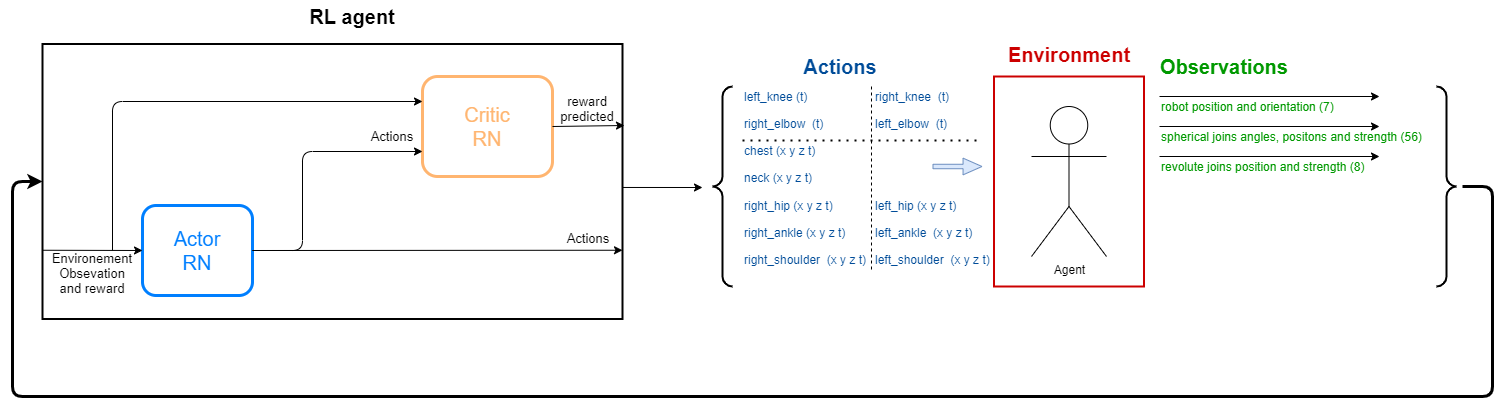
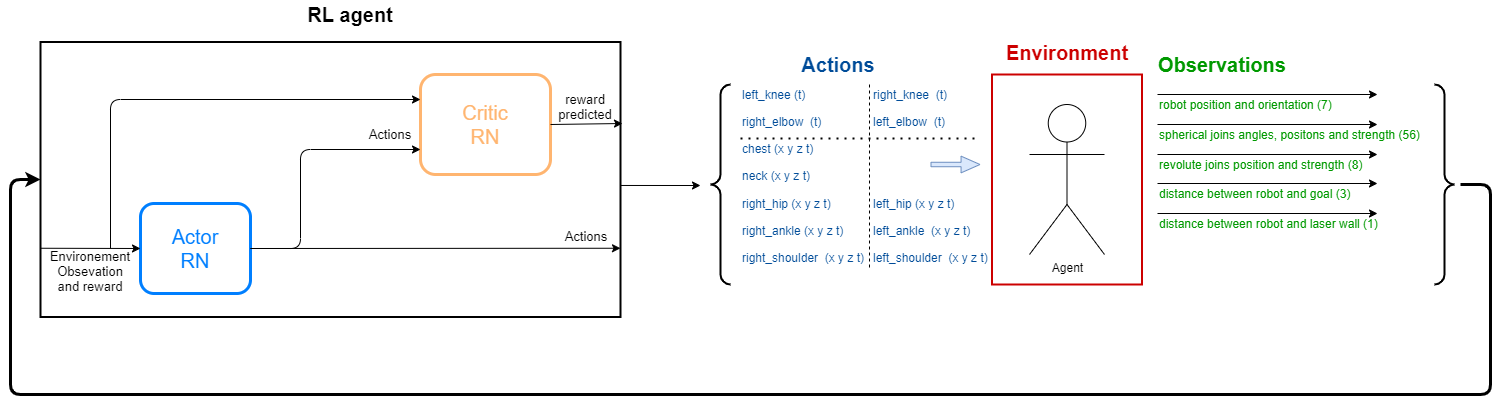
Update reward

diff --git a/environment.py b/environment.py
@@ -20,6 +20,8 @@ REWARD_HUMAN_STAYING_UP_NEGATIVE = -40
 
 REWARD_HUMAN_JUMP_TO_MUCH_NEGATIVE = -50
 
+REWARD_Z_DERIVATION_CONST = 20
+
 
 class Environment(object):
     def __init__(self):
@@ -66,10 +68,14 @@ class Environment(object):
         return human_root_position[2] - floor_root_position[2]
 
     def get_distance_human_goal(self):
-        (human_root_position, _) = self.human.get_position_orientation()
-        human_coord = Coordinate(human_root_position[0], human_root_position[1], human_root_position[2])
+        human_root_position = self.human.get_position_orientation()[0]
+        human_coord = Coordinate(human_root_position[0], human_root_position[2], human_root_position[1])
         distance_from_goal = human_coord.abs_distance_from(self.goal_coord)
         return distance_from_goal
+
+    def get_distance_human_laser(self):
+        human_root_position = self.human.get_position_orientation()[0]
+        return self.laser_wall - human_root_position[0]
 
     def get_state(self):
         joins_information = self.human.get_joins_information()
@@ -87,31 +93,38 @@ class Environment(object):
                 result.append(value)
         for distance_goal in self.get_distance_human_goal():
             result.append(distance_goal)
+        result.append(self.get_distance_human_laser())
 
         return tuple(result)
 
     def get_reward(self):
-        # reward to stay alive
         reward = REWARD_STAYING_ALIVE
 
         reward += self.get_distance_goal_reward()
         reward += self.get_laser_reward()
         reward += self.get_human_stand_up_reward()
+        reward += self.z_derivation_reward()
 
         return reward
 
     def get_distance_goal_reward(self):
         if self.get_distance_human_goal()[0] < self.memory["distance_human_goal"][0]:
-            # print("closer !!!")
-            return REWARD_HUMAN_CLOSER_GOAL_POSITIVE
+            return REWARD_HUMAN_CLOSER_GOAL_POSITIVE + \
+                   (REWARD_HUMAN_CLOSER_GOAL_POSITIVE * (self.goal_coord.x - self.get_distance_human_goal()[0])) * 0.1
         else:
-            return REWARD_HUMAN_CLOSER_GOAL_NEGATIVE
+            return REWARD_HUMAN_CLOSER_GOAL_NEGATIVE + \
+                   (REWARD_HUMAN_CLOSER_GOAL_NEGATIVE * self.get_distance_human_goal()[0]) * 0.1
 
     def get_laser_reward(self):
         if self.laser_wall < self.human.get_position_orientation()[0][0]:
-            return REWARD_HUMAN_AHEAD_LASER_WALL
+            return REWARD_HUMAN_AHEAD_LASER_WALL + \
+                   (REWARD_HUMAN_AHEAD_LASER_WALL * self.get_distance_human_laser()) * 0.1
         else:
-            return REWARD_HUMAN_BEHIND_LASER_WALL
+            return REWARD_HUMAN_BEHIND_LASER_WALL + \
+                   (REWARD_HUMAN_BEHIND_LASER_WALL * self.get_distance_human_laser()) * 0.1
+
+    def z_derivation_reward(self):
+        return REWARD_Z_DERIVATION_CONST * self.human.get_position_orientation()[0][1]
 
     def get_human_stand_up_reward(self):
         # (<0.94 = lower than 2/3 of the maximum standing value (1.410))
@@ -125,8 +138,7 @@ class Environment(object):
 
     def is_human_on_goal(self):
         distance_from_goal = self.memory["distance_human_goal"]
-        # print(distance_from_goal)
-        return distance_from_goal[0] < 0.5 and distance_from_goal[2] < 0.5
+        return distance_from_goal[0] < 0.5 and distance_from_goal[1] < 0.5
 
     def apply(self, action):
         self.human.apply_motor_power(information=action)
@@ -145,6 +157,8 @@ class Environment(object):
             0, 0, 0,
             # distance du robot par rapport à l'arrivée
             0, 0, 0,
+            # distance du robot par rapport au laser
+            0,
             # orientation du corps dans l'espace
             0, 0, 0, 0,
             # 4 jointures revolute avec position + force

diff --git a/object/human_body.py b/object/human_body.py
@@ -82,13 +82,13 @@ class HumanBody(object):
 
     def initialise_motor_power(self) -> None:
         self.motor_name_revolute += ["right_knee", "right_elbow"]
-        self.motor_power_revolute += [230, 150]
+        self.motor_power_revolute += [250, 150]
         self.motor_name_revolute += ["left_knee", "left_elbow"]
-        self.motor_power_revolute += [230, 150]
+        self.motor_power_revolute += [250, 150]
         self.motors_revolute = [self.join_dict_revolute[n] for n in self.motor_name_revolute]
 
         self.motor_name_spherical += ["chest"]
-        self.motor_power_spherical += [(200, 30)]  # (fix torque, variable torque)
+        self.motor_power_spherical += [(200, 70)]  # (fix torque, variable torque)
         self.motor_name_spherical += ["neck"]
         self.motor_power_spherical += [(60, 10)]
         self.motor_name_spherical += ["right_hip"]

diff --git a/index.py b/index.py
@@ -48,7 +48,7 @@ if __name__ == "__main__":
         agent.reset()
         best_score = None
         # agent noise reset
-        while not agent.done and agent.score > -400:
+        while not agent.done and agent.score > -2000:
             # agent.environment.client.stepSimulation()
             # agent.test()
             best_action = agent.best_action()
